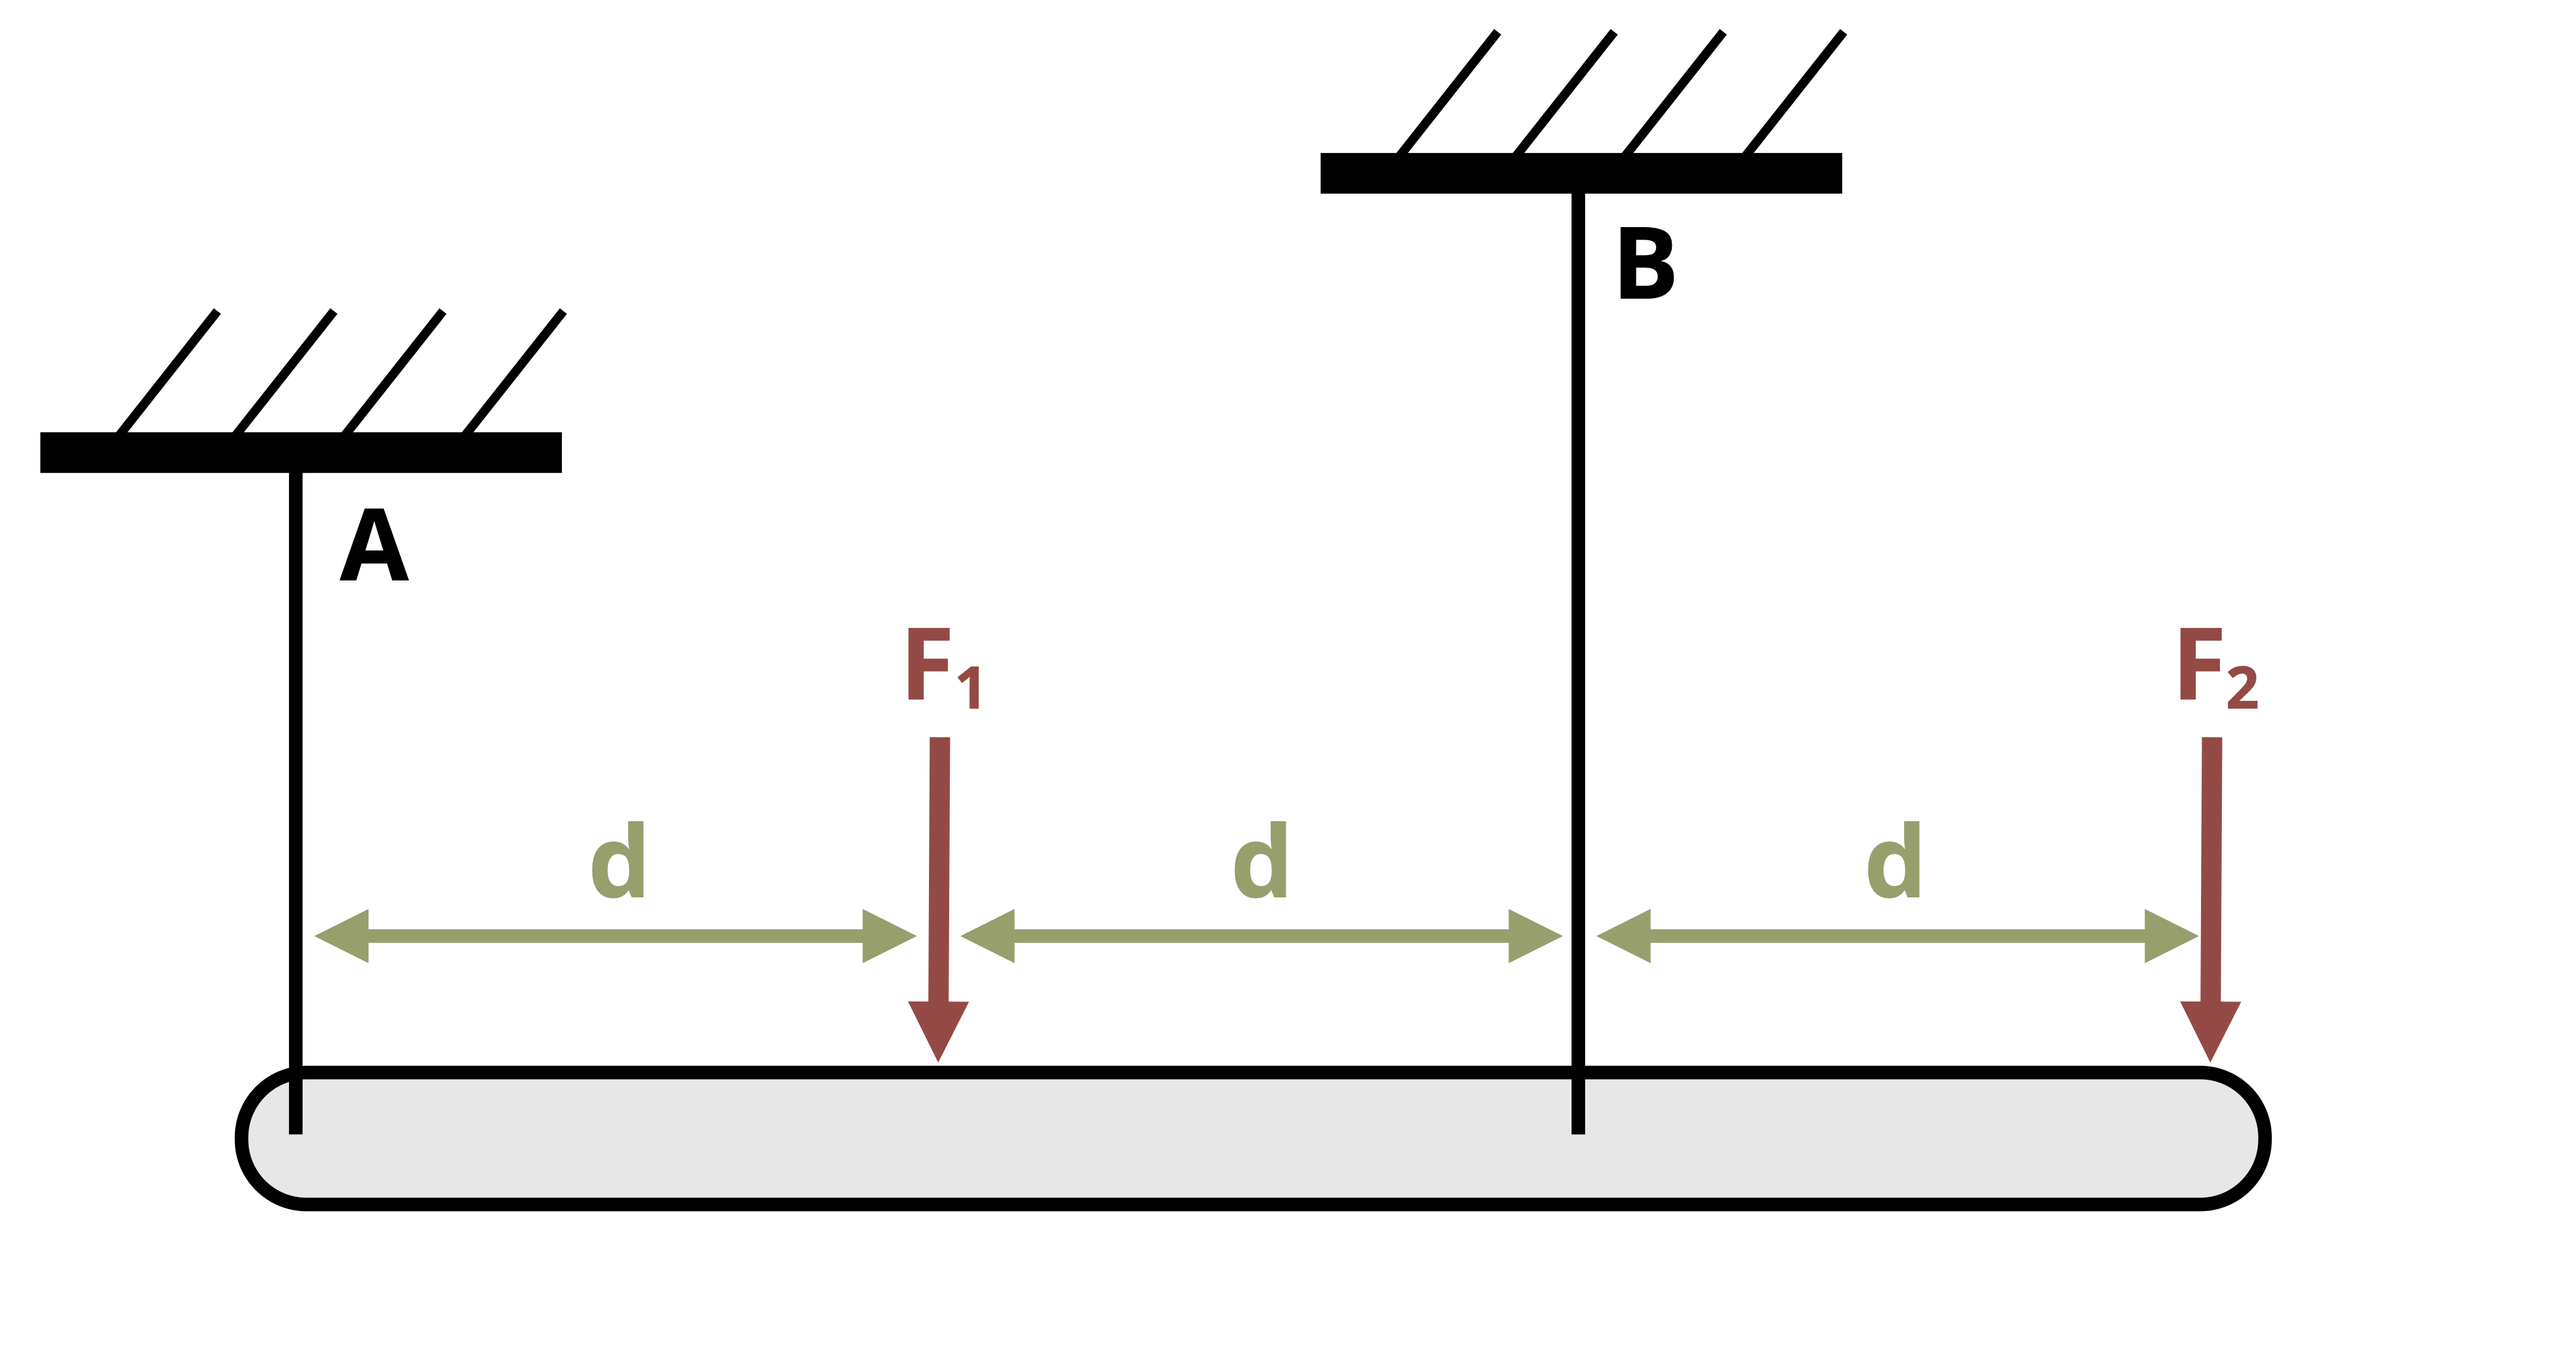
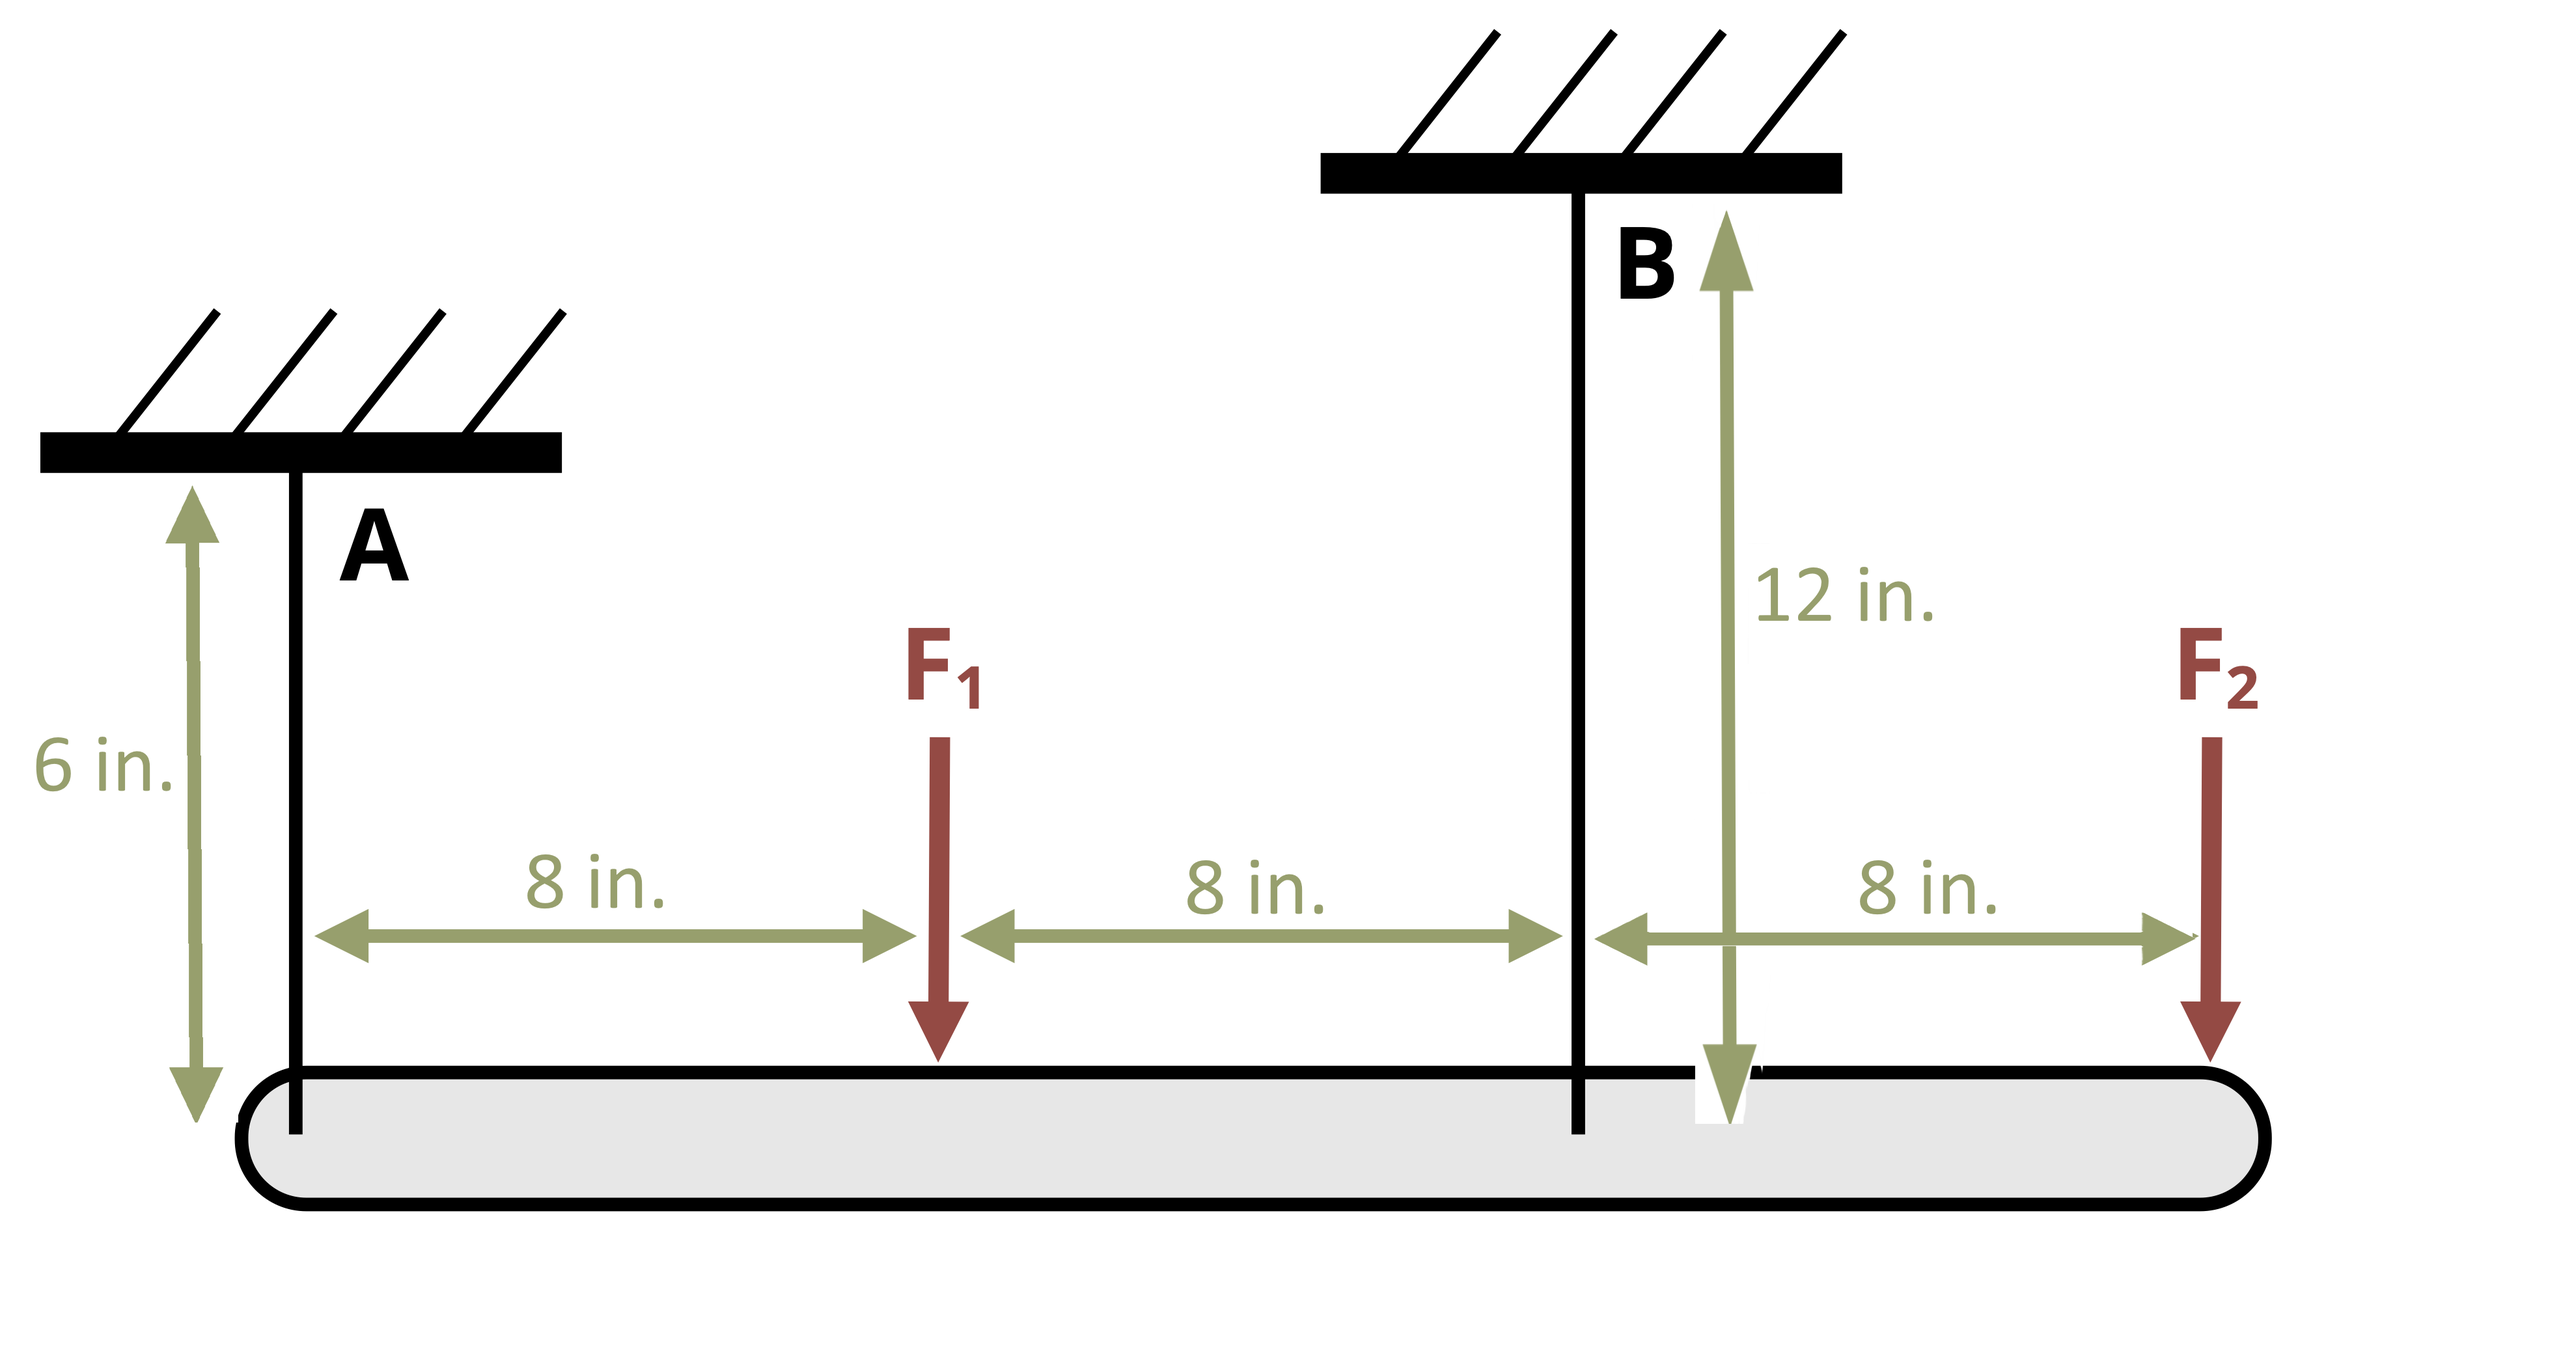
Sept 22 minor edits to exercises

diff --git a/docs/problem3_10dynamicsubmit.html b/docs/problem3_10dynamicsubmit.html
@@ -3800,8 +3800,8 @@ def server(input, output, session):
 
         # Calculate the instructor's answer and determine if the user's answer is correct.
         ang = math.pi/3-2/3*strain()
-        NewHor = 2*L()*math.sin(math.pi/3)/math.tan(ang)
-        instr = NewHor-L()
+        NewHor = L()*math.sin(math.pi/3)/math.tan(ang)
+        instr = NewHor-L()/2
         if math.isclose(float(input.answer()), instr, rel_tol=0.01):
             check = "*Correct*"
             correct_indicator = "JL"

diff --git a/docs/problem5_33dynamicsubmit.html b/docs/problem5_33dynamicsubmit.html
@@ -3789,8 +3789,8 @@ def server(input, output, session):
     @reactive.event(input.generate_problem)
     def randomize_vars():
         random.seed(input.ID())
-        F1.set(random.randrange(200,800,10))
-        F2.set(random.randrange(200,800,10))
+        F1.set(random.randrange(600,800,10))
+        F2.set(random.randrange(300,500,10))
         AA.set(random.randrange(5,10,1)/100)
         AB.set(random.randrange(2,5,1)/100)
         EA.set(random.randrange(15,25,1))
